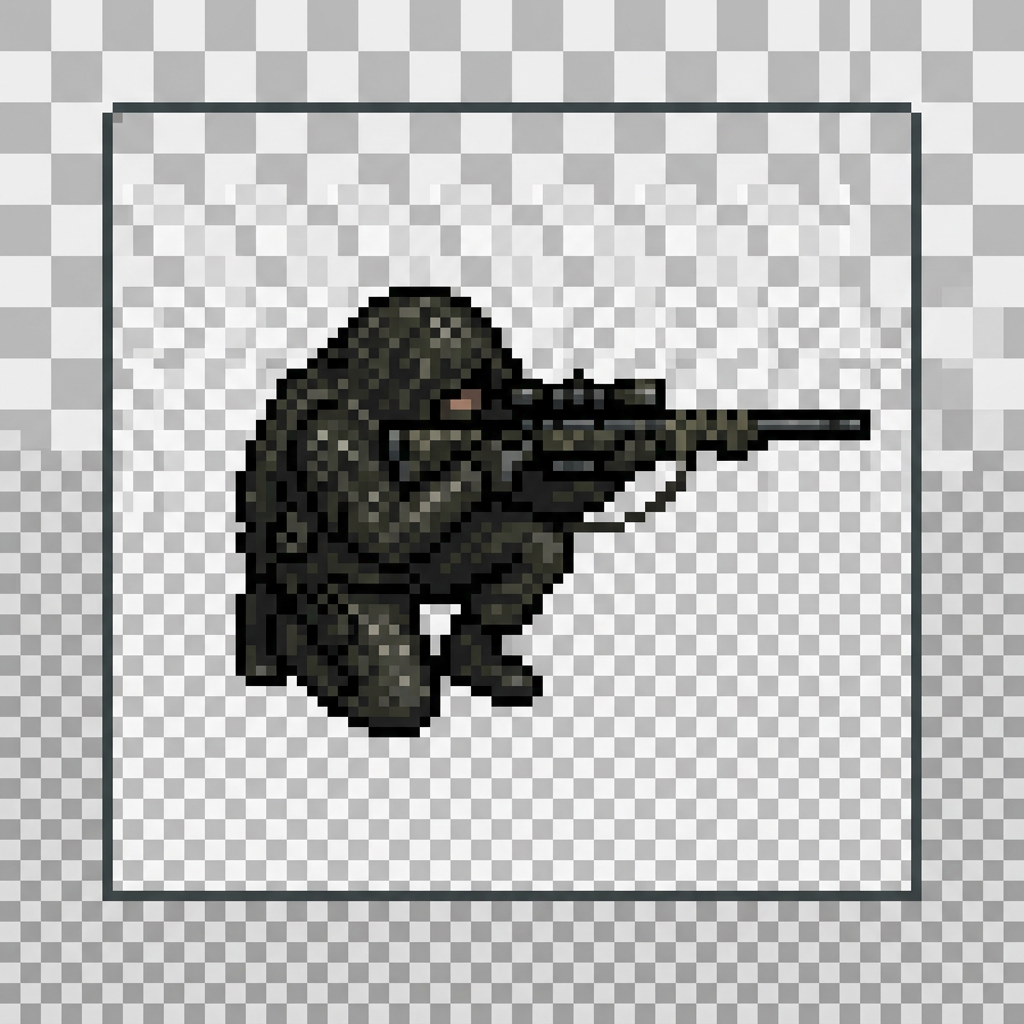
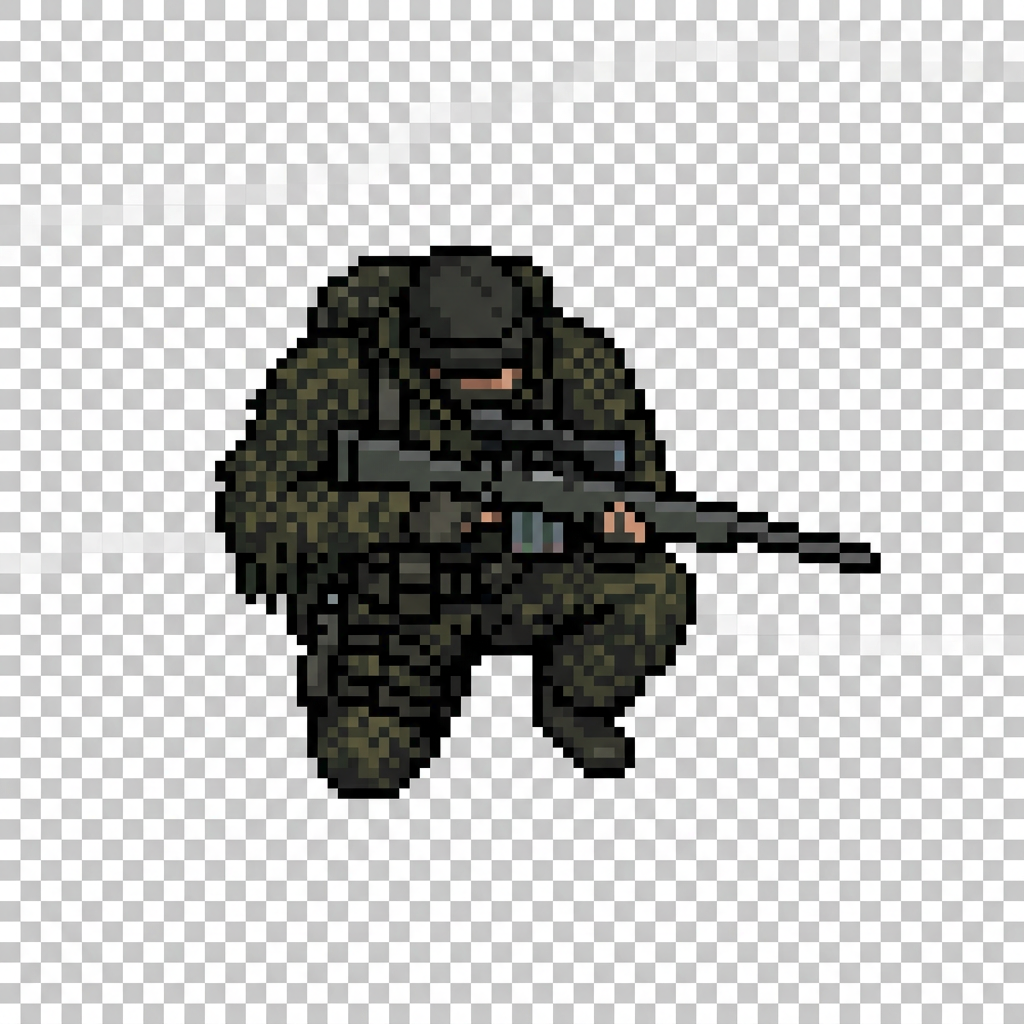
feat: 小怪立绘改为128x128高清像素图，ENEMY_SIZE 1.2->1.8、boss sizeMul 1.6->2.2 人物放大更清晰

diff --git a/js/game.js b/js/game.js
@@ -477,7 +477,7 @@ const UIAnimator = (() => {
 const TILE_SIZE = 20;
 const PLAYER_SIZE = 1.0;
 const BULLET_SIZE = 0.3;
-const ENEMY_SIZE = 1.2;
+const ENEMY_SIZE = 1.8;
 let MAP_SIZE = 150;
 const VIEW_RANGE_X = 45; // 左右各45格（更大的可见范围）
 const VIEW_RANGE_Y = 30; // 上下各30格
@@ -5632,7 +5632,7 @@ function drawEnemy(enemy) {
     const screenX = worldToScreen(enemy.x, enemy.y).x;
     const screenY = worldToScreen(enemy.x, enemy.y).y;
 
-    const sizeMul = enemy.isBoss ? 1.6 : 1.0;
+    const sizeMul = enemy.isBoss ? 2.2 : 1.0;
     const r = ENEMY_SIZE * TILE_SIZE * sizeMul;
     const now = performance.now();
 

diff --git a/网页/js/game.js b/网页/js/game.js
@@ -477,7 +477,7 @@ const UIAnimator = (() => {
 const TILE_SIZE = 20;
 const PLAYER_SIZE = 1.0;
 const BULLET_SIZE = 0.3;
-const ENEMY_SIZE = 1.2;
+const ENEMY_SIZE = 1.8;
 let MAP_SIZE = 150;
 const VIEW_RANGE_X = 45; // 左右各45格（更大的可见范围）
 const VIEW_RANGE_Y = 30; // 上下各30格
@@ -5632,7 +5632,7 @@ function drawEnemy(enemy) {
     const screenX = worldToScreen(enemy.x, enemy.y).x;
     const screenY = worldToScreen(enemy.x, enemy.y).y;
 
-    const sizeMul = enemy.isBoss ? 1.6 : 1.0;
+    const sizeMul = enemy.isBoss ? 2.2 : 1.0;
     const r = ENEMY_SIZE * TILE_SIZE * sizeMul;
     const now = performance.now();
 
